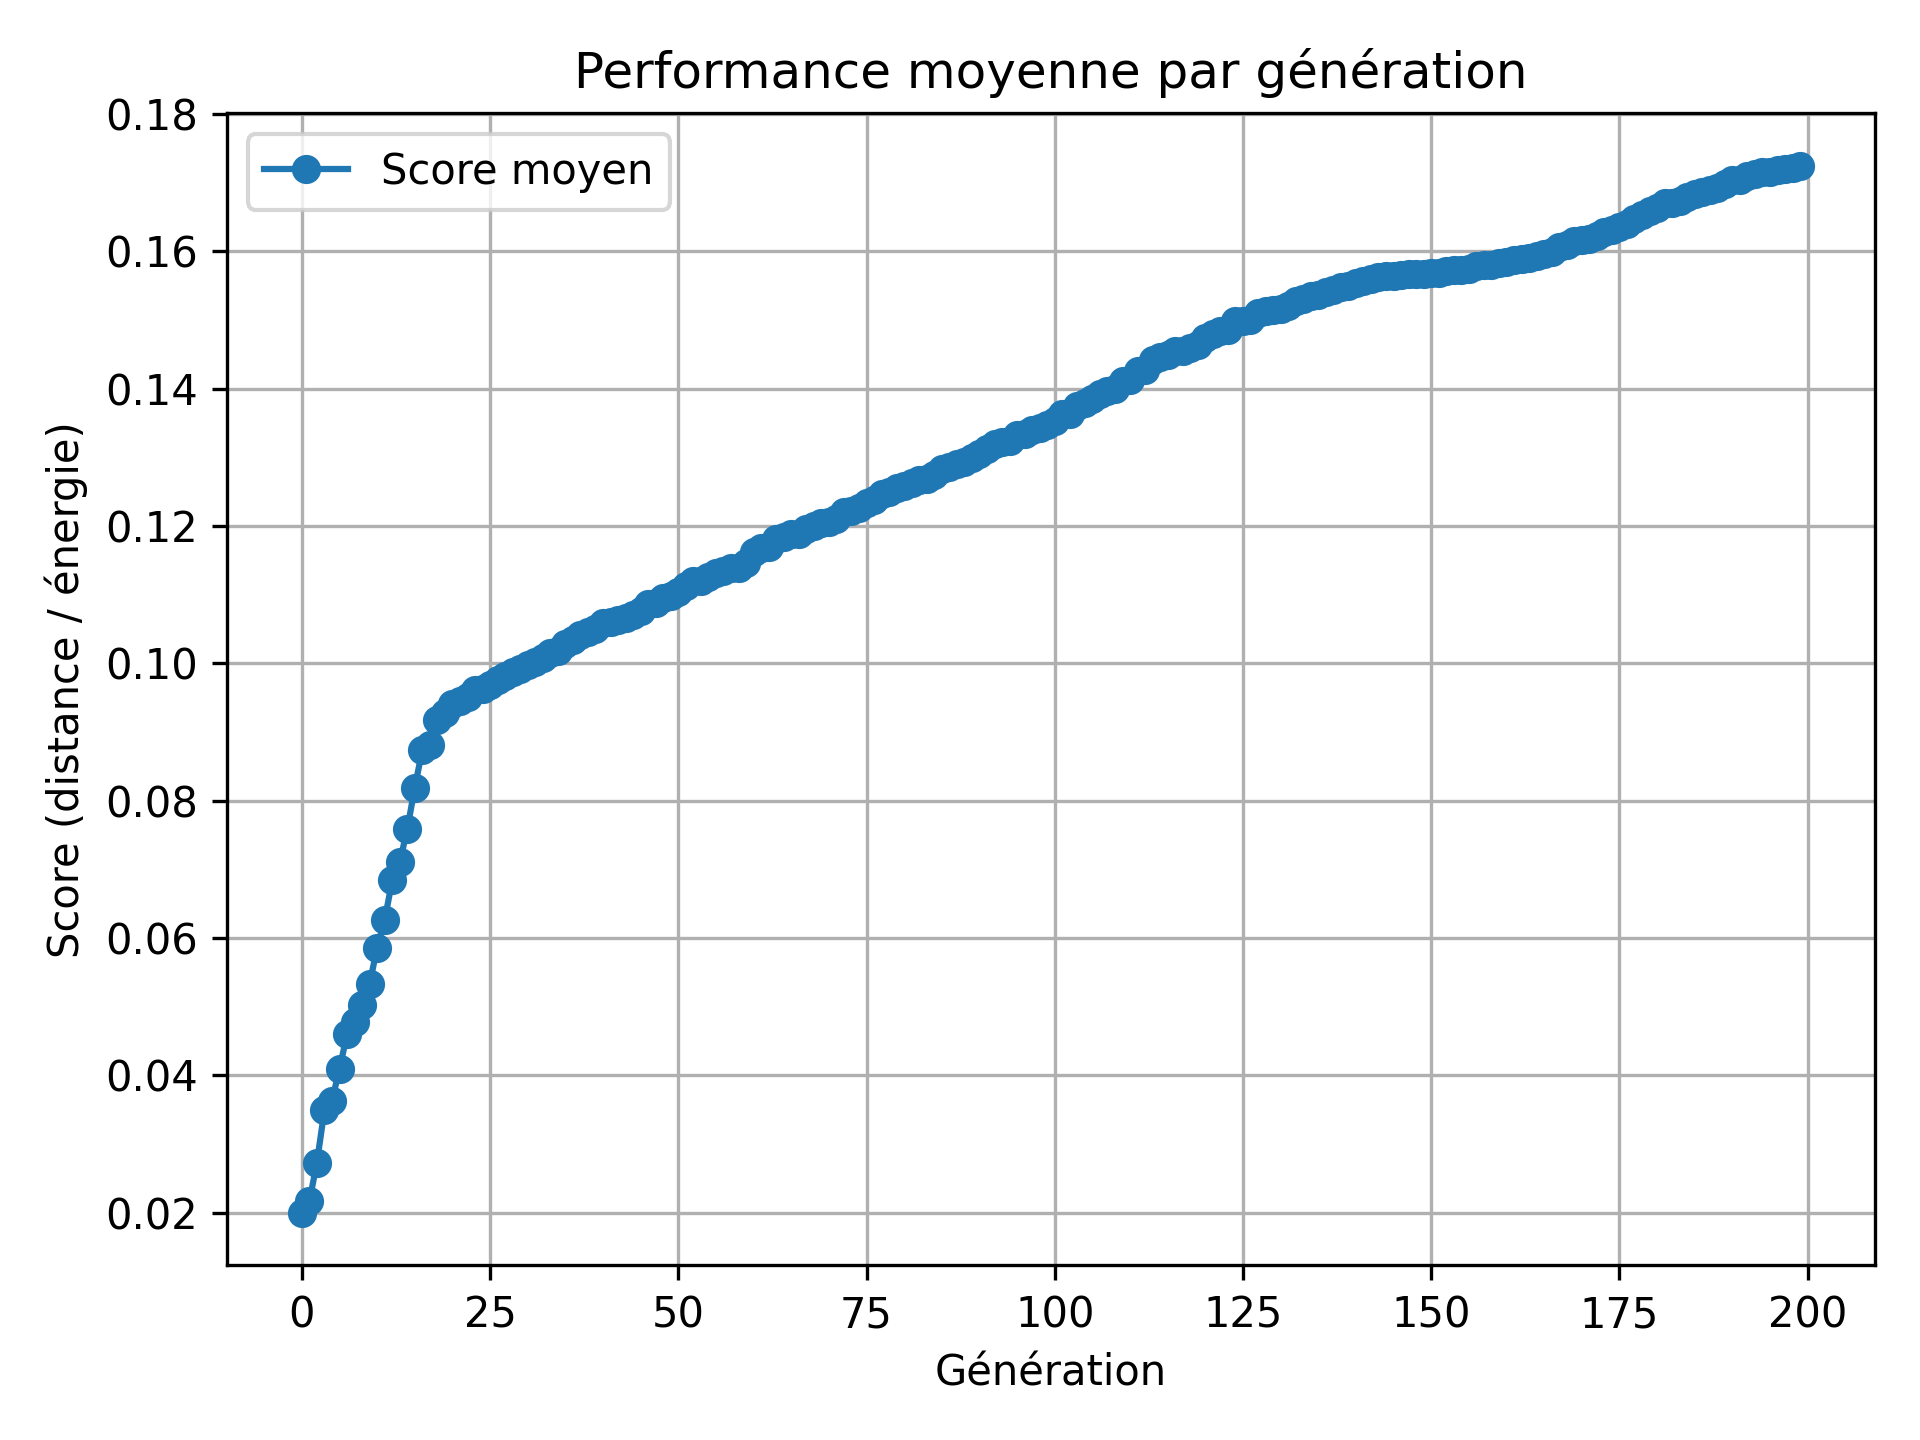
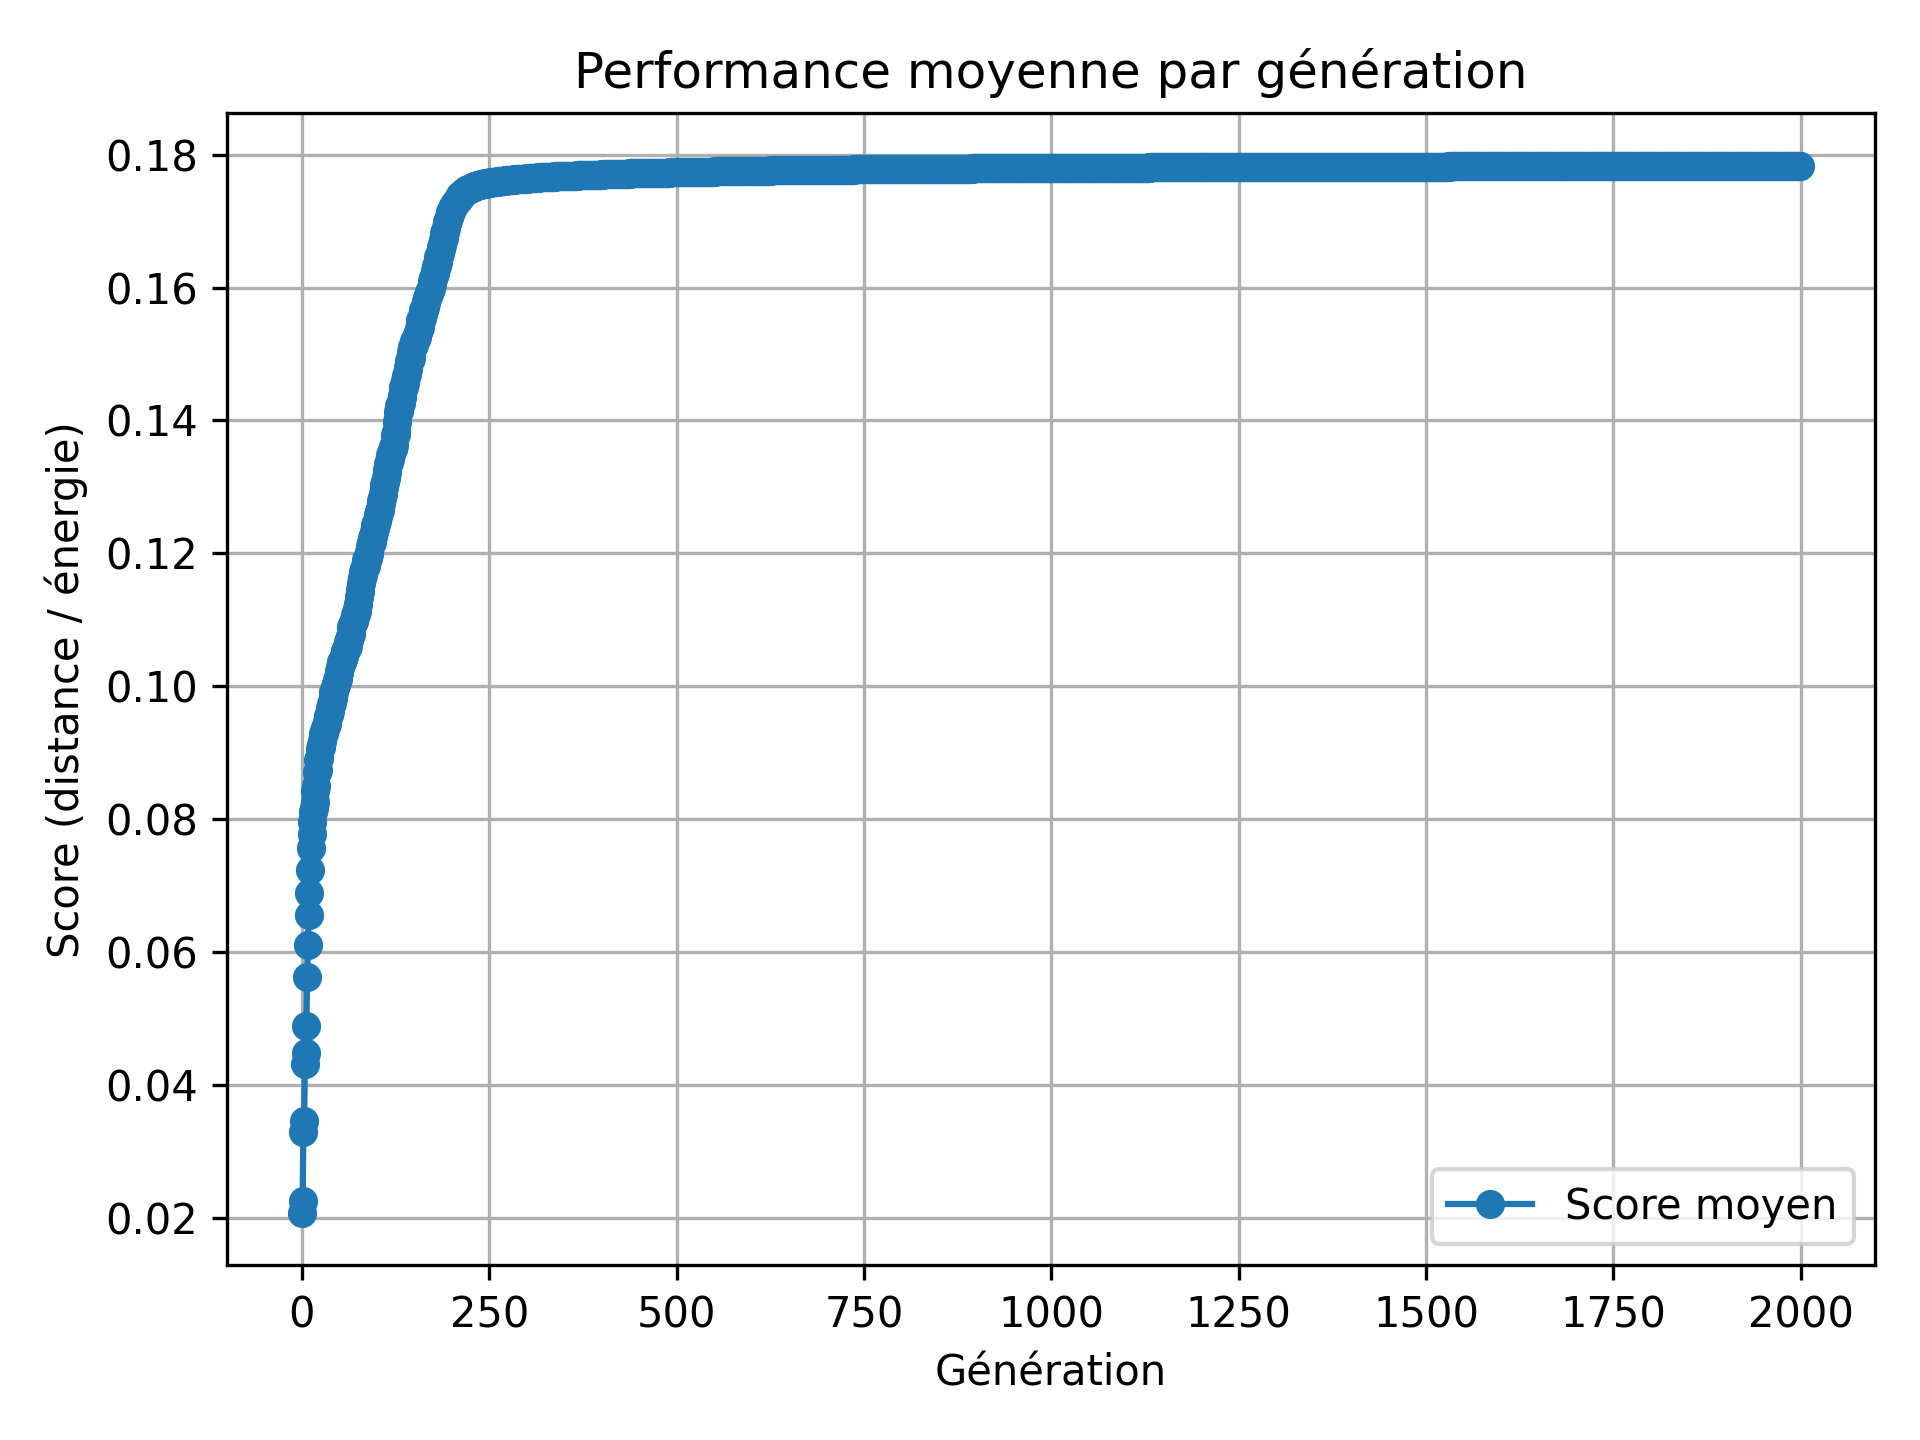
new genom

diff --git a/simulate_population.py b/simulate_population.py
@@ -27,7 +27,7 @@ minimal_genome = {
 n = 100
 dt = 0.0002
 steps = 1000
-generations = 200
+generations = 2000
 keep_fraction = 0.1
 mutation_strength = 0.01
 
